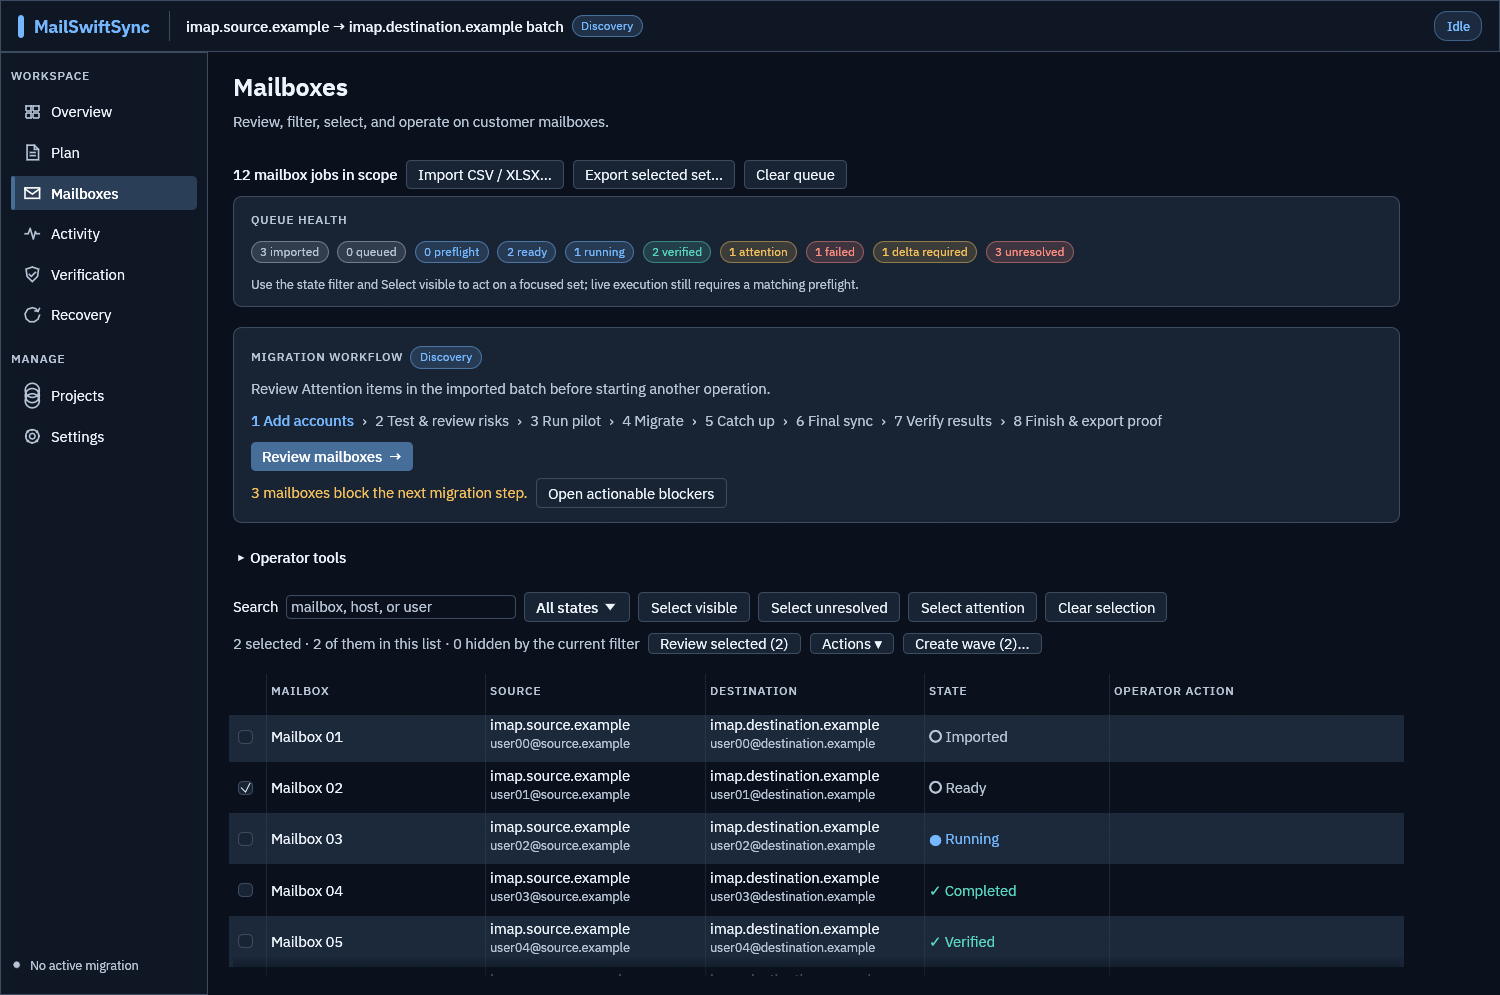
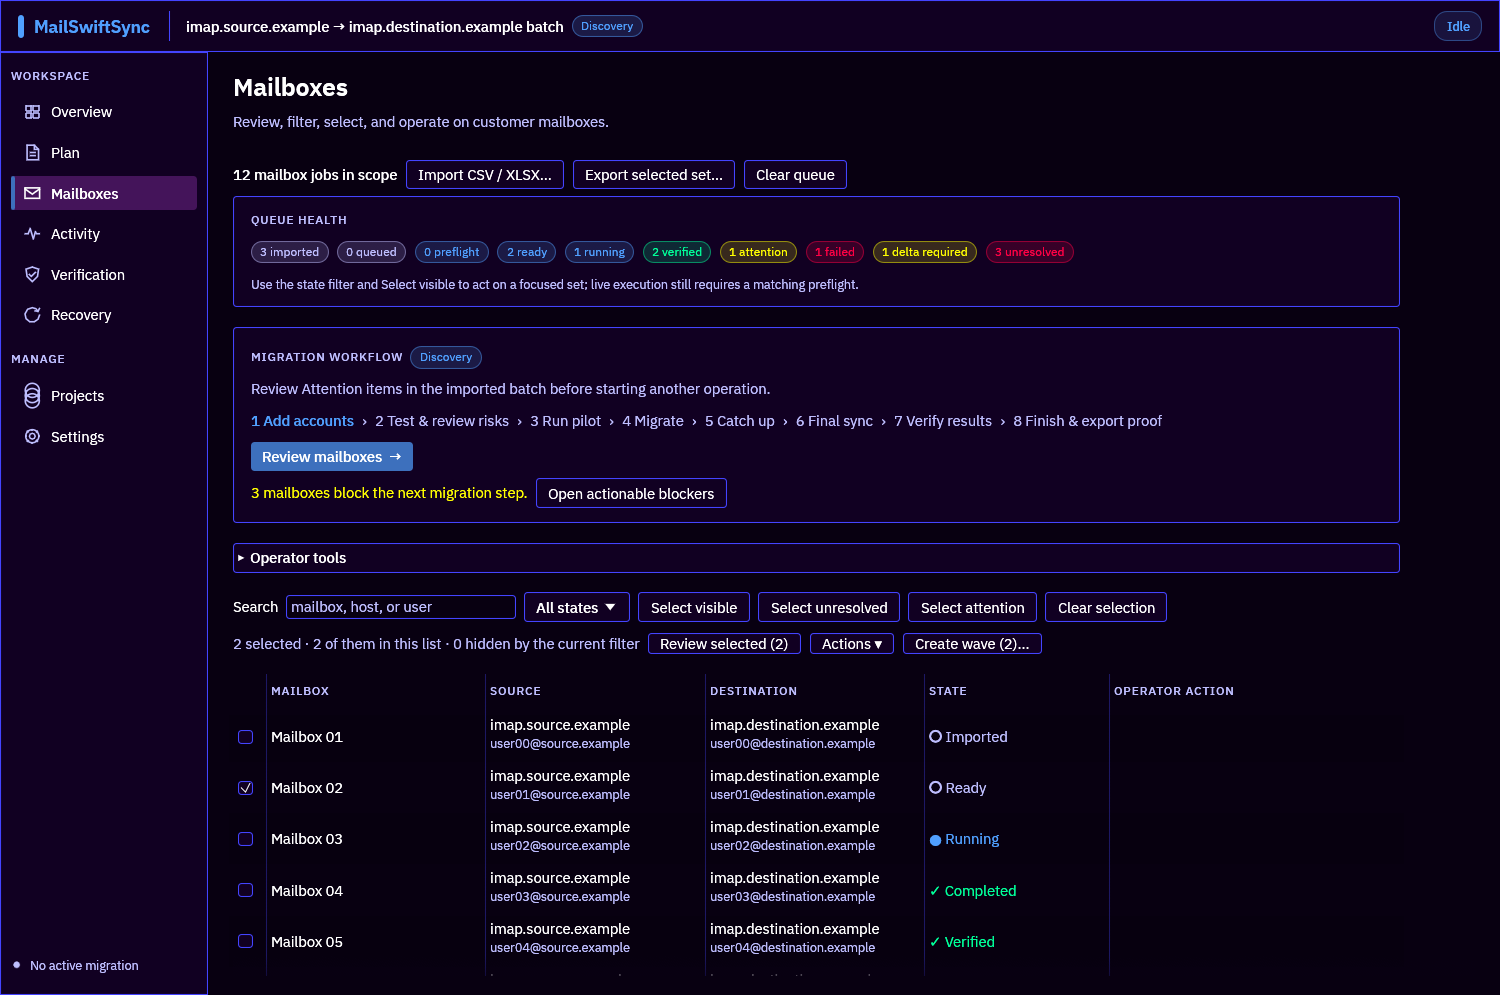
Refresh README previews with retro neon theme

diff --git a/scripts/capture-ui-previews.py b/scripts/capture-ui-previews.py
@@ -15,6 +15,19 @@ import subprocess
 import tempfile
 import time
 
+THEME_NAMES = (
+    "Default",
+    "ClassicGreen",
+    "ClassicAmber",
+    "ClassicWhite",
+    "Retro80sNeon",
+    "HighContrast",
+    "TerminalBlue",
+    "Commodore64",
+    "Windows95",
+    "Windows31",
+)
+
 
 def own_window(pid: int) -> str | None:
     tree = subprocess.check_output(["xwininfo", "-root", "-tree"], text=True, timeout=5)
@@ -32,7 +45,12 @@ def main() -> None:
     parser.add_argument("--binary", type=Path, default=Path("target/debug/mailswiftsync"))
     parser.add_argument("--output", type=Path, default=Path("docs/wiki/assets"))
     parser.add_argument("--window", default="1440x1000", help="Preview size, e.g. 900x640")
-    parser.add_argument("--theme", default="Default", help="Theme name as stored in appearance.toml, e.g. HighContrast")
+    parser.add_argument(
+        "--theme",
+        default="Default",
+        choices=THEME_NAMES,
+        help="Theme enum name as stored in appearance.toml (for example Retro80sNeon)",
+    )
     parser.add_argument("--light", action="store_true", help="Capture the light variant")
     args = parser.parse_args()
     for program in ("xwininfo", "xprop", "import"):

diff --git a/README.md b/README.md
@@ -8,9 +8,9 @@
 [![License: MIT](https://img.shields.io/badge/license-MIT-blue.svg)](LICENSE)
 [![Rust](https://img.shields.io/badge/built%20with-Rust-orange.svg)](https://www.rust-lang.org/)
 
-![Migration plan — Default dark theme](docs/wiki/assets/migration-plan.png)
+![Migration plan — Retro 80s Neon theme](docs/wiki/assets/migration-plan.png)
 
-> Screenshots show the running desktop application in the Default dark theme, using synthetic demo data and an isolated workspace.
+> Screenshots show the running desktop application in the Retro 80s Neon theme, using synthetic demo data and an isolated workspace.
 
 <details>
 <summary>Overview and verification workspace</summary>
@@ -22,7 +22,7 @@
 </details>
 
 To refresh these images on an X11/XWayland desktop, run `cargo build --locked`
-followed by `python3 scripts/capture-ui-previews.py`. The capture script uses
+followed by `python3 scripts/capture-ui-previews.py --theme Retro80sNeon`. The capture script uses
 temporary state and configuration; it requires `xwininfo`, `xprop`, and
 ImageMagick's `import` command.
 
@@ -569,7 +569,7 @@ restoring an earlier verified backup returns the ledger to normal operation.
 It does not cover the transfer engine itself running out of destination
 storage.
 
-![Mailboxes workspace — Default dark theme](docs/wiki/assets/batch-queue.png)
+![Mailboxes workspace — Retro 80s Neon theme](docs/wiki/assets/batch-queue.png)
 
 The on-screen **Activity** log is intentionally capped at 10,000 lines for desktop stability; the structured durable event ledger remains the longer-lived audit record. Raw engine transcripts stay process-local and are not written to SQLite.
 
